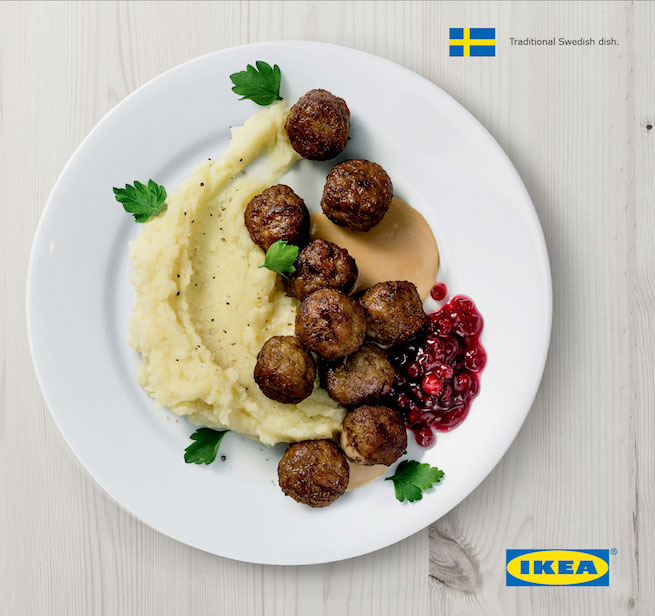
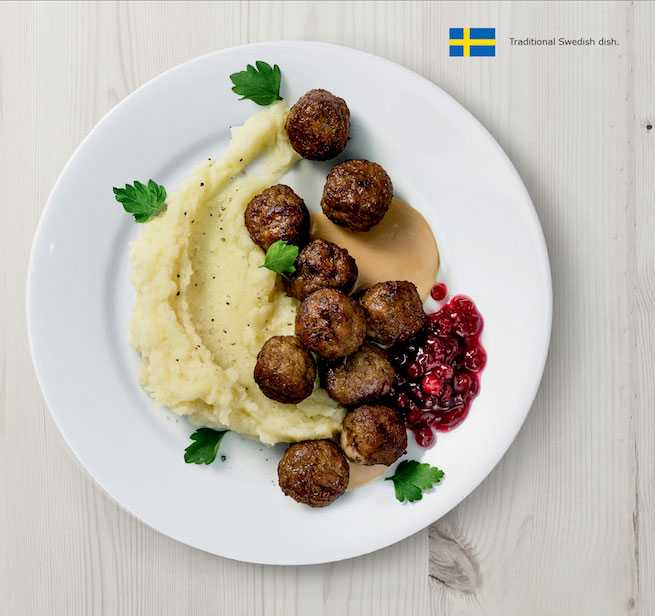
design merged from sudheesh for tracking screen

diff --git a/Web/src/app/login/login.component.html b/Web/src/app/login/login.component.html
@@ -1,48 +1,48 @@
 <div class="login-wrapper clearfix">
-    <div class="bg-wrap">
-    </div>
-    <img class="logo" src="assets/images/ikea-logo.png">
-    <div class="form-wrap">
-        
-        <form (submit)="loginUser($event)">
-            <table id="loginMainTable">
-                <tr>
-                
-                <td>
-                    <table id="logintable">
-                        <tr>
-                            <td>
-                                <h4>Login</h4>
-                            </td>
-                        </tr>
-                        <tr>
-                            <td>
-                                <label>Username</label>
-                                <input type="text">
-                            </td>
-                        </tr>
-                        <tr>
-                            <td>
-                                <label>Password</label>
-                                <input type="password">
-                            </td>
-                            </tr>
-                            <tr class="error-message">
+        <div class="bg-wrap">
+        </div>
+        <!--<img class="logo" src="assets/images/ikea-logo.png">-->
+        <div class="form-wrap">
+            
+            <form (submit)="loginUser($event)">
+                <table id="loginMainTable">
+                    <tr>
+                    
+                    <td>
+                        <table id="logintable">
+                            <tr>
                                 <td>
-                                    {{errorMessage}}
+                                    <h4>Login</h4>
                                 </td>
                             </tr>
                             <tr>
                                 <td>
-                                    <input type="submit" class="circle-btn btn-go" value="">
+                                    <label>Username</label>
+                                    <input type="text">
                                 </td>
                             </tr>
-                        </table>
-                </td>
-                </tr>
-
-            </table>
-        </form>
-    </div>
+                            <tr>
+                                <td>
+                                    <label>Password</label>
+                                    <input type="password">
+                                </td>
+                                </tr>
+                                <tr class="error-message">
+                                    <td>
+                                        {{errorMessage}}
+                                    </td>
+                                </tr>
+                                <tr>
+                                    <td>
+                                        <input type="submit" class="circle-btn btn-go" value="">
+                                    </td>
+                                </tr>
+                            </table>
+                    </td>
+                    </tr>
     
-</div>
+                </table>
+            </form>
+        </div>
+        
+    </div>

diff --git a/Web/src/styles.css b/Web/src/styles.css
@@ -264,7 +264,6 @@
         -webkit-background-size:cover;
         -moz-background-size:cover;
         background-size:cover;
-        opacity: .25;
         position: relative;
     }
     
@@ -276,23 +275,24 @@
         top: 50%;
         width: 400px;
         height: 250px;
-        background: rgba(0, 0, 0, .25);
+        background: rgba(255,255, 255, .73);
         margin-left: -230px;
         margin-top: -143px;
         border-radius:14px;
-        color: #fff;
+        color: #000;
+        box-shadow: 0px 0px 37px rgba(0,0, 0, .3);
     }
     
     .login-wrapper .form-wrap input{
         display: block;
         padding: 5px;
         border: none;
-        border-bottom: solid 1px #3a3a3a;
+        border-bottom: solid 1px #8a8a8a;
         width: 100%;
         background: transparent !important;
         outline: none;
-        color: #777;
-        font-size: 18px;
+        color: #555;
+        font-size: 19px;
     }
     
     input:-webkit-autofill,
@@ -300,7 +300,7 @@
     input:-webkit-autofill:focus,
     input:-webkit-autofill:active {
         transition: background-color 5000s ease-in-out 0s;
-        -webkit-text-fill-color: #777 !important;
+        -webkit-text-fill-color: #555 !important;
     }
     
     #loginMainTable, #logintable{
@@ -308,7 +308,7 @@
     }
     
     #logintable label{
-        color: #aaa;
+        color: #000;
         margin-bottom: 0 !important;
     }
     
@@ -353,6 +353,15 @@
         width: 100%;
         display: table;
         margin-top: 20px;
+    }
+    
+    .tracker-page-wrapper .logo{
+        position: absolute;
+        right: 50%;
+        margin-right: 20px;
+        bottom: 20px;
+        width: 90px;
+        z-index: 1;
     }
     
     .tracker-page-wrapper .bg-wrap{
@@ -626,7 +635,7 @@
         text-align: right !important;
         width: 160px;
     }
-
+    
     .final-amount{
         float: right;
         font-size: 19px;
@@ -695,6 +704,7 @@
         height: 100px;
         width: 100px;
         margin-top: 20px;
+        background: #fff;
     }
     
     .pos-container .display-frame .qr-code img{
@@ -888,6 +898,12 @@
         cursor: pointer;
         background: #ccc no-repeat center;
         border-radius: 3px;
+    }
+    
+    @media screen and (min-width: 1600px){
+        .container {
+            width: 1570px;
+        }
     }
     
     

diff --git a/Web/src/app/app.module.ts b/Web/src/app/app.module.ts
@@ -39,6 +39,7 @@ import { MenuComponent } from './menu/menu.component';
 import { BlockComponent } from './block/block.component';
 import { PosComponent } from './ikea/pos/pos.component';
 import { NgxQRCodeModule } from 'ngx-qrcode2';
+import { NotificationBarModule } from 'ngx-notification-bar/release'
 
 const appRoutes:Routes = [
   {
@@ -129,7 +130,8 @@ const appRoutes:Routes = [
   NgbModule.forRoot(),
   HttpModule,
   BrowserAnimationsModule,
-  NgxQRCodeModule  
+  NgxQRCodeModule,
+  NotificationBarModule
   ],
   providers: [UserService, AuthguardGuard, FormsModule, AbattoirService, ProcessorService, LogisticService, IkeaService, BlockService, NotifyService],
   bootstrap: [AppComponent]

diff --git a/Web/src/app/product/track-product/track-product.component.html b/Web/src/app/product/track-product/track-product.component.html
@@ -1,6 +1,7 @@
 <div class="page-container">
   <div class="container">
     <div class="tracker-page-wrapper clearfix">
+        <img class="logo" src="assets/images/ikea-logo.png">
       <div class="bg-wrap">
       </div>
       <div class="title-wrap">
